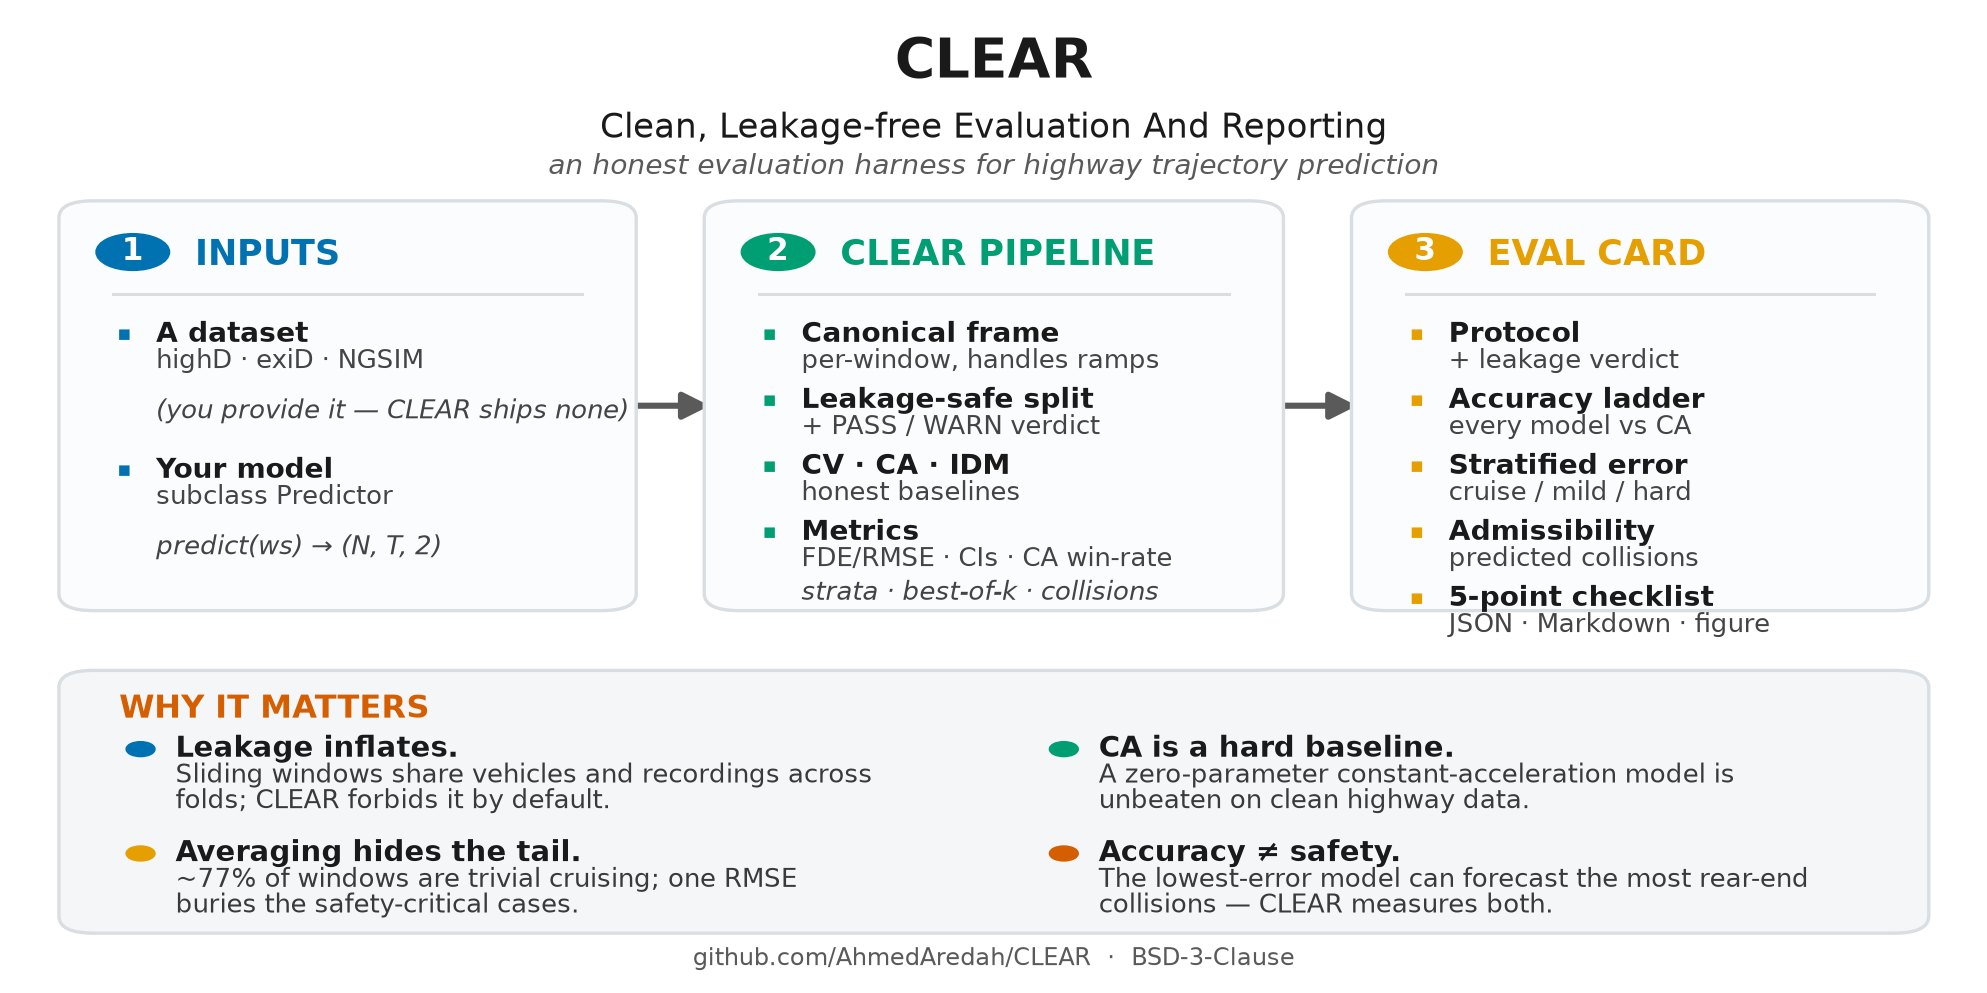
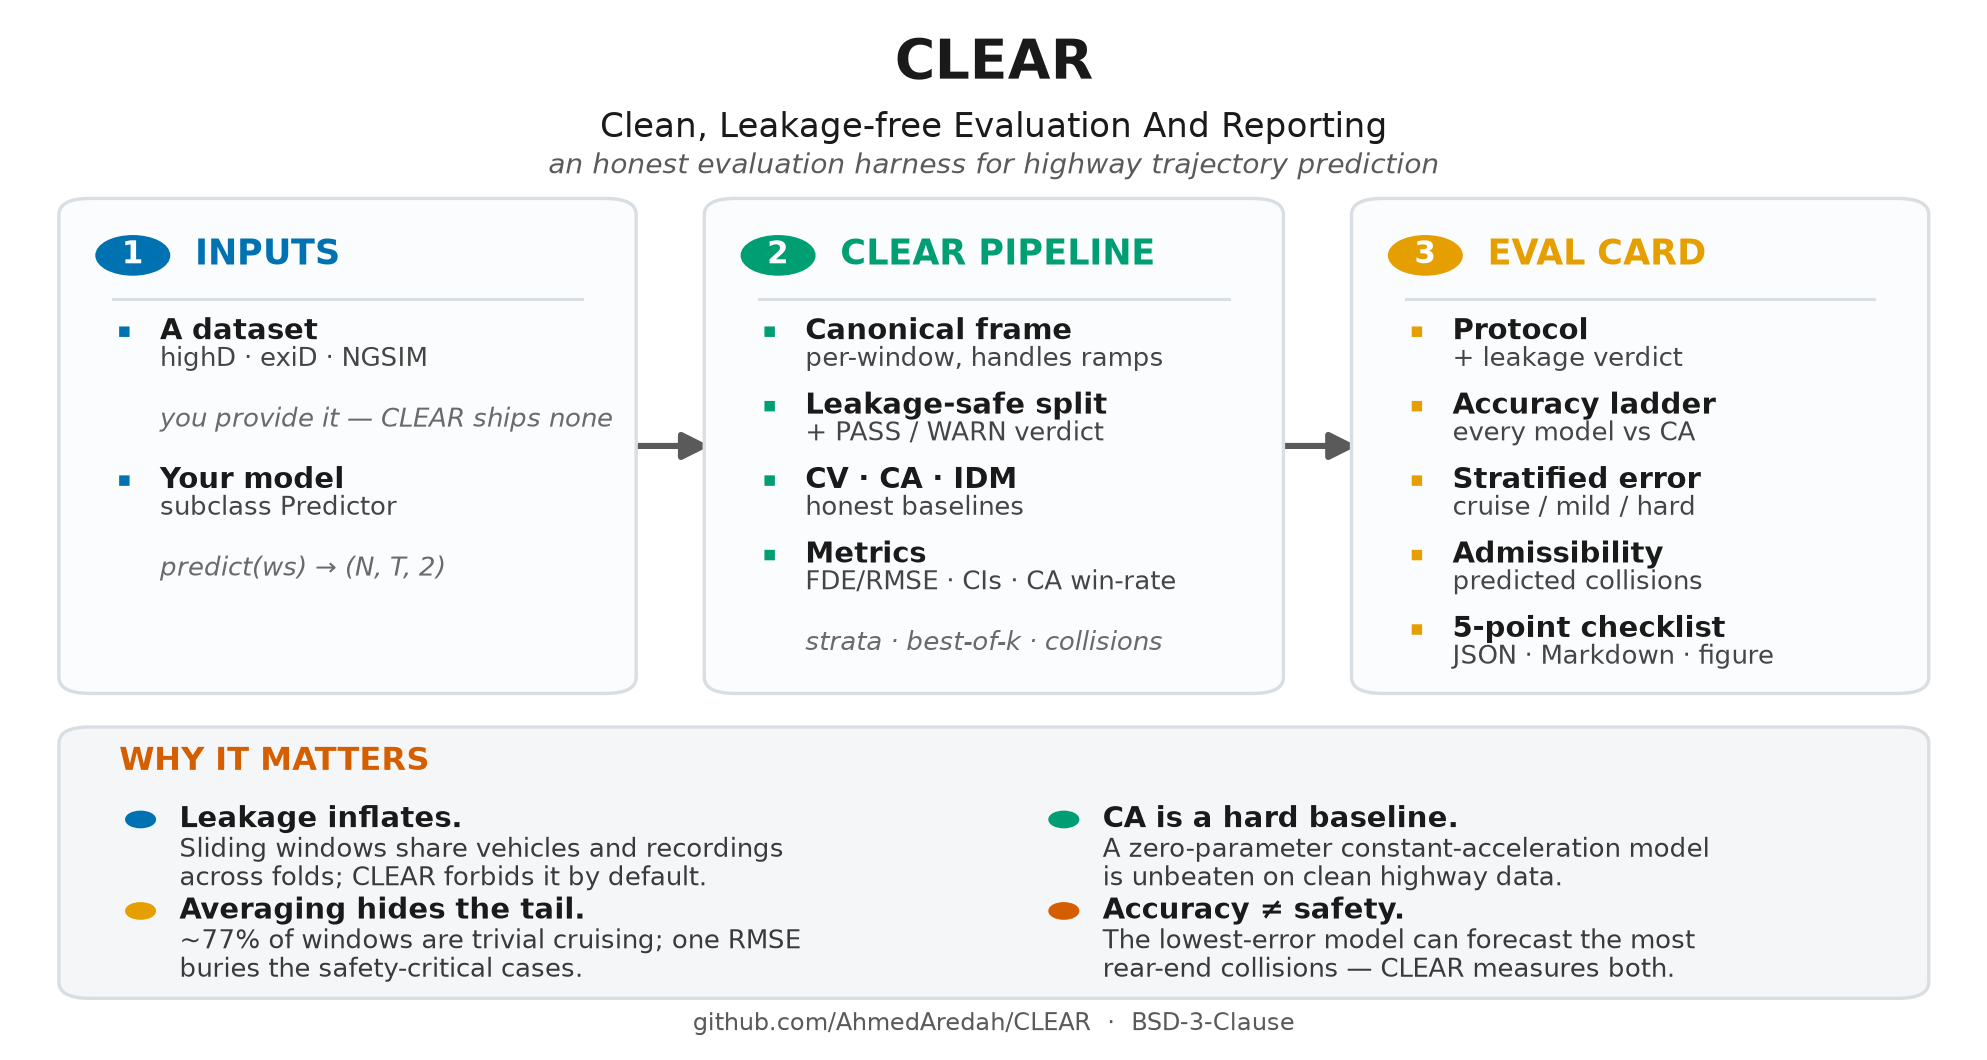
Overview figure: taller cards with shared row pitch so all content (incl. Eval Card checklist) fits and aligns

diff --git a/docs/make_overview.py b/docs/make_overview.py
@@ -7,26 +7,26 @@ from matplotlib.patches import FancyBboxPatch, FancyArrowPatch, Circle
 # Okabe-Ito accents
 BLUE, GREEN, ORANGE, VERM, GREY = "#0072B2", "#009E73", "#E69F00", "#D55E00", "#5A5A5A"
 INK, FAINT, LINE = "#1A1A1A", "#FBFCFD", "#D9DEE3"
-mpl.rcParams.update({
-    "font.family": "DejaVu Sans", "savefig.dpi": 220, "savefig.bbox": "tight", "pdf.fonttype": 42,
-})
+mpl.rcParams.update({"font.family": "DejaVu Sans", "savefig.dpi": 220, "savefig.bbox": "tight",
+                     "pdf.fonttype": 42})
 
-fig, ax = plt.subplots(figsize=(11.4, 5.6))
+fig, ax = plt.subplots(figsize=(11.4, 6.0))
 ax.set_xlim(0, 1); ax.set_ylim(0, 1); ax.axis("off")
 
 # ---------- title ----------
 ax.text(0.5, 0.985, "CLEAR", ha="center", va="top", fontsize=18, fontweight="bold", color=INK)
-ax.text(0.5, 0.905, "Clean, Leakage-free Evaluation And Reporting", ha="center", va="top",
+ax.text(0.5, 0.912, "Clean, Leakage-free Evaluation And Reporting", ha="center", va="top",
         fontsize=11, color=INK)
-ax.text(0.5, 0.862, "an honest evaluation harness for highway trajectory prediction", ha="center",
+ax.text(0.5, 0.872, "an honest evaluation harness for highway trajectory prediction", ha="center",
         va="top", fontsize=9.3, color=GREY, style="italic")
 
-# ---------- three stage cards (equal height, aligned) ----------
-CARD_Y, CARD_H = 0.385, 0.42
+# ---------- three stage cards (equal height + shared row pitch) ----------
+CARD_Y, CARD_H = 0.345, 0.475
+HEADER_H, PAD_TOP, PAD_BOT, BODY_OFF = 0.105, 0.020, 0.030, 0.027
 cards = [
     (0.025, 0.285, BLUE, "1", "INPUTS", [
         ("A dataset", "highD · exiD · NGSIM"),
-        ("", "(you provide it — CLEAR ships none)"),
+        ("", "you provide it — CLEAR ships none"),
         ("Your model", "subclass Predictor"),
         ("", "predict(ws) → (N, T, 2)"),
     ]),
@@ -45,61 +45,64 @@ cards = [
         ("5-point checklist", "JSON · Markdown · figure"),
     ]),
 ]
+N_MAX = max(len(c[5]) for c in cards)
+CONTENT_TOP = CARD_Y + CARD_H - HEADER_H - PAD_TOP
+CONTENT_BOT = CARD_Y + PAD_BOT
+PITCH = (CONTENT_TOP - CONTENT_BOT - BODY_OFF) / (N_MAX - 1)   # shared across cards -> rows align
 
 
 def card(x, w, accent, num, title, rows):
-    ax.add_patch(FancyBboxPatch((x, CARD_Y), w, CARD_H, boxstyle="round,pad=0.006,rounding_size=0.018",
+    ax.add_patch(FancyBboxPatch((x, CARD_Y), w, CARD_H, boxstyle="round,pad=0.006,rounding_size=0.016",
                                 linewidth=1.1, edgecolor=LINE, facecolor=FAINT, zorder=2))
-    cy = CARD_Y + CARD_H - 0.052
-    ax.add_patch(Circle((x + 0.032, cy + 0.004), 0.0185, color=accent, zorder=4))
-    ax.text(x + 0.032, cy + 0.004, num, ha="center", va="center", fontsize=10, fontweight="bold",
+    cy = CARD_Y + CARD_H - 0.050
+    ax.add_patch(Circle((x + 0.032, cy), 0.0185, color=accent, zorder=4))
+    ax.text(x + 0.032, cy, num, ha="center", va="center", fontsize=10, fontweight="bold",
             color="white", zorder=5)
-    ax.text(x + 0.064, cy, title, ha="left", va="center", fontsize=11.5, fontweight="bold", color=accent,
-            zorder=4)
-    ax.plot([x + 0.022, x + w - 0.022], [CARD_Y + CARD_H - 0.092] * 2, color=LINE, lw=1.0, zorder=3)
-    ty = CARD_Y + CARD_H - 0.135; step = (CARD_H - 0.175) / max(len(rows), 1)
-    for lead, body in rows:
+    ax.text(x + 0.064, cy, title, ha="left", va="center", fontsize=11.5, fontweight="bold",
+            color=accent, zorder=4)
+    ax.plot([x + 0.022, x + w - 0.022], [CARD_Y + CARD_H - HEADER_H + 0.012] * 2, color=LINE, lw=1.0,
+            zorder=3)
+    for i, (lead, body) in enumerate(rows):
+        y = CONTENT_TOP - i * PITCH
         if lead:
-            ax.text(x + 0.024, ty, "▪", ha="left", va="center", fontsize=7, color=accent, zorder=4)
-            ax.text(x + 0.044, ty, lead, ha="left", va="center", fontsize=9.2, fontweight="bold",
+            ax.text(x + 0.024, y, "▪", ha="left", va="center", fontsize=7, color=accent, zorder=4)
+            ax.text(x + 0.046, y, lead, ha="left", va="center", fontsize=9.4, fontweight="bold",
                     color=INK, zorder=4)
-            ax.text(x + 0.044, ty - 0.028, body, ha="left", va="center", fontsize=8.4, color="#444",
+            ax.text(x + 0.046, y - BODY_OFF, body, ha="left", va="center", fontsize=8.5, color="#454545",
                     zorder=4)
-            ty -= step * 1.42
-        else:
-            ax.text(x + 0.044, ty + 0.006, body, ha="left", va="center", fontsize=8.4, color="#444",
-                    style="italic", zorder=4)
-            ty -= step * 0.92
+        else:                                   # continuation / note: single italic line in the slot
+            ax.text(x + 0.046, y - BODY_OFF * 0.5, body, ha="left", va="center", fontsize=8.5,
+                    color="#6a6a6a", style="italic", zorder=4)
 
 
 for x, w, accent, num, title, rows in cards:
     card(x, w, accent, num, title, rows)
 
-# arrows between cards
 for x0, x1 in [(0.310, 0.357), (0.643, 0.690)]:
     ax.add_patch(FancyArrowPatch((x0, CARD_Y + CARD_H / 2), (x1, CARD_Y + CARD_H / 2),
                                  arrowstyle="-|>", mutation_scale=18, linewidth=2.0, color=GREY, zorder=1))
 
 # ---------- WHY band ----------
-ax.add_patch(FancyBboxPatch((0.025, 0.045), 0.95, 0.265, boxstyle="round,pad=0.006,rounding_size=0.018",
+WB_Y, WB_H = 0.045, 0.255
+ax.add_patch(FancyBboxPatch((0.025, WB_Y), 0.95, WB_H, boxstyle="round,pad=0.006,rounding_size=0.016",
                             linewidth=1.1, edgecolor=LINE, facecolor="#F4F6F8", zorder=1))
-ax.text(0.05, 0.275, "WHY IT MATTERS", ha="left", va="center", fontsize=10.5, fontweight="bold",
-        color=VERM)
+ax.text(0.05, WB_Y + WB_H - 0.028, "WHY IT MATTERS", ha="left", va="center", fontsize=10.5,
+        fontweight="bold", color=VERM)
 whys = [
-    ("Leakage inflates.", "Sliding windows share vehicles and recordings across", "folds; CLEAR forbids it by default."),
-    ("CA is a hard baseline.", "A zero-parameter constant-acceleration model is", "unbeaten on clean highway data."),
-    ("Averaging hides the tail.", "~77% of windows are trivial cruising; one RMSE", "buries the safety-critical cases."),
-    ("Accuracy ≠ safety.", "The lowest-error model can forecast the most rear-end", "collisions — CLEAR measures both."),
+    ("Leakage inflates.", "Sliding windows share vehicles and recordings", "across folds; CLEAR forbids it by default.", BLUE),
+    ("CA is a hard baseline.", "A zero-parameter constant-acceleration model", "is unbeaten on clean highway data.", GREEN),
+    ("Averaging hides the tail.", "~77% of windows are trivial cruising; one RMSE", "buries the safety-critical cases.", ORANGE),
+    ("Accuracy ≠ safety.", "The lowest-error model can forecast the most", "rear-end collisions — CLEAR measures both.", VERM),
 ]
-xcol = [0.055, 0.530]; yrow = [0.205, 0.095]
-for i, (lead, l1, l2) in enumerate(whys):
+xcol = [0.055, 0.530]; yrow = [WB_Y + WB_H - 0.085, WB_Y + WB_H - 0.175]
+for i, (lead, l1, l2, cdot) in enumerate(whys):
     x = xcol[i % 2]; y = yrow[i // 2]
-    ax.add_patch(Circle((x + 0.006, y + 0.028), 0.007, color=[BLUE, GREEN, ORANGE, VERM][i], zorder=3))
-    ax.text(x + 0.024, y + 0.028, lead, ha="left", va="center", fontsize=9.6, fontweight="bold", color=INK)
-    ax.text(x + 0.024, y, l1, ha="left", va="center", fontsize=8.6, color="#3A3A3A")
-    ax.text(x + 0.024, y - 0.027, l2, ha="left", va="center", fontsize=8.6, color="#3A3A3A")
+    ax.add_patch(Circle((x + 0.006, y), 0.0072, color=cdot, zorder=3))
+    ax.text(x + 0.026, y, lead, ha="left", va="center", fontsize=9.6, fontweight="bold", color=INK)
+    ax.text(x + 0.026, y - 0.030, l1, ha="left", va="center", fontsize=8.6, color="#3A3A3A")
+    ax.text(x + 0.026, y - 0.058, l2, ha="left", va="center", fontsize=8.6, color="#3A3A3A")
 
-ax.text(0.5, 0.012, "github.com/AhmedAredah/CLEAR  ·  BSD-3-Clause", ha="center", va="center",
+ax.text(0.5, 0.014, "github.com/AhmedAredah/CLEAR  ·  BSD-3-Clause", ha="center", va="center",
         fontsize=8, color=GREY)
 
 out = os.path.dirname(__file__)